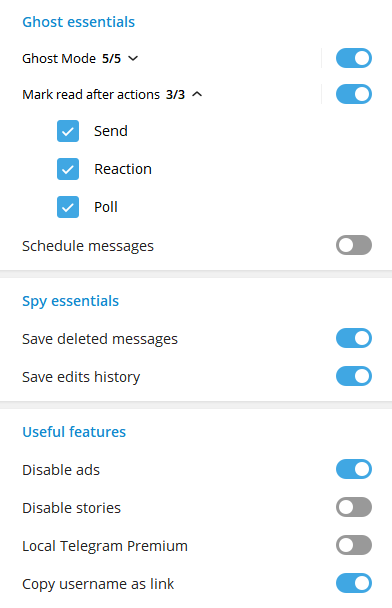
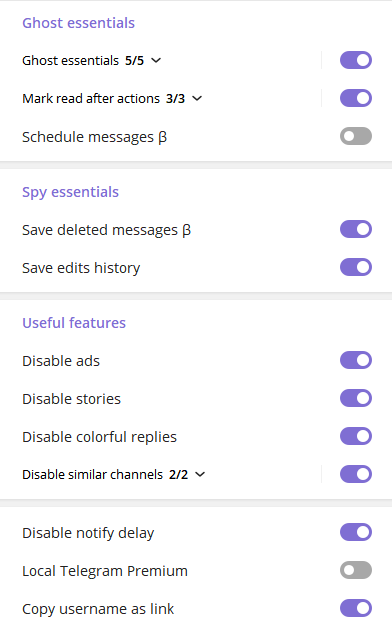
feat: update README.md feat: add note

diff --git a/README.md b/README.md
@@ -9,11 +9,17 @@
 - Anti-recall
 - Font customization
 - Streamer mode
-- Material Design switches
 - Local Telegram Premium
-- Sync read states and message history with AyuSync *(TBA)*
+- Enhanced appearance
 
-<img src='.github/demos/demo1.png' width='250'> <img src='.github/demos/demo2.png' width='250'> <img src='.github/demos/demo3.png' width='250'>
+And many more. Check out our [Documentation](https://docs.ayugram.one/desktop/).
+
+## Preferences screenshots
+
+<img src='.github/demos/demo1.png' width='268'>
+<img src='.github/demos/demo2.png' width='268'>
+<img src='.github/demos/demo3.png' width='268'>
+<img src='.github/demos/demo4.png' width='268'>
 
 ## Downloads
 
@@ -27,12 +33,7 @@ build by yourself.
 
 ### Arch Linux
 
-It is recommended to build AyuGram from source on any Linux distro.
-
-But if you're brave enough, you can install `ayugram-desktop-git` or `ayugram-desktop-bin`
-from [AUR](https://aur.archlinux.org/packages?O=0&K=ayugram).
-
-These packages maintained by [westpain](https://github.com/incycledream). *We're not responsible for them.*
+You can install `ayugram-desktop` or `ayugram-desktop-git` from [AUR](https://aur.archlinux.org/packages?O=0&K=ayugram).
 
 ### Any other Linux distro
 
@@ -48,23 +49,27 @@ Make sure you have these components installed with VS Build Tools:
 
 ## Donation
 
-If you enjoy using **AyuGram** and want to send us a tip, here's how you can do it:
+Enjoy using **AyuGram**? Consider sending us a tip!
 
-- Using [Boosty](https://boosty.to/alexeyzavar) - any card and PayPal
-- Using cryptocurrency - `TRpbajq38qU8joThgAfKJLyEPbNjzsdPJ1` (Tron + USDT)
+[Here's available methods.](https://docs.ayugram.one/donate/)
 
 ## Credits
+
+### Telegram clients
 
 - [Telegram Desktop](https://github.com/telegramdesktop/tdesktop)
 - [Kotatogram](https://github.com/kotatogram/kotatogram-desktop)
 - [64Gram](https://github.com/TDesktop-x64/tdesktop)
 - [Forkgram](https://github.com/forkgram/tdesktop)
-- [SQLite](https://github.com/sqlite/sqlite)
-- [sqlite_orm](https://github.com/fnc12/sqlite_orm)
 
-### Very special thanks to
+### Libraries used
 
-- [Solar Icon Set](https://solariconset.com/)
 - [JSON for Modern C++](https://github.com/nlohmann/json)
 - [BitConverter](https://github.com/YanjieHe/BitConverter)
 - [Not Enough Standards](https://github.com/Alairion/not-enough-standards)
+- [SQLite](https://github.com/sqlite/sqlite)
+- [sqlite_orm](https://github.com/fnc12/sqlite_orm)
+
+### Icons
+
+- [Solar Icon Set](https://www.figma.com/community/file/1166831539721848736)

diff --git a/docs/building-win-x64.md b/docs/building-win-x64.md
@@ -4,7 +4,6 @@
 - [Install third party software](#install-third-party-software)
 - [Clone source code and prepare libraries](#clone-source-code-and-prepare-libraries)
 - [Build the project](#build-the-project)
-- [Qt Visual Studio Tools](#qt-visual-studio-tools)
 
 ## Prepare folder
 
@@ -27,6 +26,8 @@ Open **x64 Native Tools Command Prompt for VS 2022.bat**, go to ***BuildPath*** 
     git clone --recursive https://github.com/AyuGram/AyuGramDesktop.git tdesktop
     tdesktop\Telegram\build\prepare\win.bat
 
+You may encounter an error saying that your IP is not allowed - simply turn on VPN.
+
 ## Build the project
 
 Go to ***BuildPath*\\tdesktop\\Telegram** and run
@@ -36,12 +37,3 @@ Go to ***BuildPath*\\tdesktop\\Telegram** and run
 * Open ***BuildPath*\\tdesktop\\out\\Telegram.sln** in Visual Studio 2022
 * Select Telegram project and press Build > Build Telegram (Debug and Release configurations)
 * The result AyuGram.exe will be located in **D:\TBuild\tdesktop\out\Debug** (and **Release**)
-
-### Qt Visual Studio Tools
-
-For better debugging you may want to install Qt Visual Studio Tools:
-
-* Open **Extensions** -> **Manage Extensions**
-* Go to **Online** tab
-* Search for **Qt**
-* Install **Qt Visual Studio Tools** extension

diff --git a/docs/api_credentials.md b/docs/api_credentials.md
@@ -1,13 +1,7 @@
-## Obtaining your API credentials
+## API credentials
 
-To build your version of Telegram Desktop you're required to provide your own **api_id** and **api_hash** for the Telegram API access.
+Official Telegram keys:
 
-How to obtain your **api_id** and **api_hash** is described here: [https://core.telegram.org/api/obtaining_api_id](https://core.telegram.org/api/obtaining_api_id)
+API_ID `2040`
 
-If you're building the application not for deployment, but only for test purposes you can use TEST ONLY credentials, which are very limited by the Telegram API server:
-
-**api_id**: 17349
-**api_hash**: 344583e45741c457fe1862106095a5eb
-
-Your users will start getting internal server errors on login if you deploy an app using those **api_id** and **api_hash**.
-
+API_HASH `b18441a1ff607e10a989891a5462e627`
